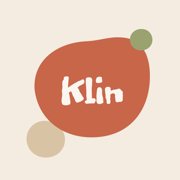
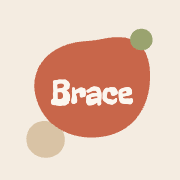
Rename app to Brace and add Ember palette

diff --git a/index.html b/index.html
@@ -4,13 +4,13 @@
   <meta charset="utf-8">
   <meta name="viewport" content="width=device-width, initial-scale=1, viewport-fit=cover">
   <!-- Rename: also change APP_NAME in config.js and the manifest -->
-  <title>Klin</title>
+  <title>Brace</title>
   <meta name="description" content="A small, private place for the things you're grateful for.">
   <meta name="theme-color" content="#F4ECE1" media="(prefers-color-scheme: light)">
   <meta name="theme-color" content="#2A1E19" media="(prefers-color-scheme: dark)">
   <meta name="apple-mobile-web-app-capable" content="yes">
   <meta name="apple-mobile-web-app-status-bar-style" content="default">
-  <meta name="apple-mobile-web-app-title" content="Klin">
+  <meta name="apple-mobile-web-app-title" content="Brace">
   <link rel="manifest" href="manifest.webmanifest">
   <link rel="icon" href="icons/favicon-32.png" type="image/png" sizes="32x32">
   <link rel="apple-touch-icon" href="icons/apple-touch-icon.png">
@@ -126,6 +126,14 @@
           <button data-value="auto" data-text="themeAuto"></button>
           <button data-value="light" data-text="themeLight"></button>
           <button data-value="dark" data-text="themeDark"></button>
+        </div>
+      </div>
+
+      <div class="group">
+        <p class="label" data-text="palette"></p>
+        <div class="seg" data-setting="palette">
+          <button data-value="terra" data-text="paletteTerra"></button>
+          <button data-value="ember" data-text="paletteEmber"></button>
         </div>
       </div>
 

diff --git a/app.js b/app.js
@@ -22,7 +22,7 @@
     },
   };
 
-  const DEFAULTS = { count: 5, lang: "en", theme: "auto" };
+  const DEFAULTS = { count: 5, lang: "en", theme: "auto", palette: "terra" };
   const settings = { ...DEFAULTS, ...store.get("settings", {}) };
   let entries = store.get("entries", {});
 
@@ -101,7 +101,12 @@
     else root.setAttribute("data-theme", settings.theme);
     const dark = settings.theme === "dark" ||
       (settings.theme === "auto" && matchMedia("(prefers-color-scheme: dark)").matches);
-    $$('meta[name="theme-color"]').forEach((m) => m.setAttribute("content", dark ? "#2A1E19" : "#F4ECE1"));
+    if (settings.palette === "ember") root.setAttribute("data-palette", "ember");
+    else root.removeAttribute("data-palette");
+    const bars = settings.palette === "ember"
+      ? { dark: "#161213", light: "#E9E5E2" }
+      : { dark: "#2A1E19", light: "#F4ECE1" };
+    $$('meta[name="theme-color"]').forEach((m) => m.setAttribute("content", dark ? bars.dark : bars.light));
   }
 
   function applyTexts() {
@@ -429,7 +434,7 @@
     const key = b.closest(".seg").dataset.setting;
     settings[key] = key === "count" ? Number(b.dataset.value) : b.dataset.value;
     saveSettings();
-    if (key === "theme") applyTheme();
+    if (key === "theme" || key === "palette") applyTheme();
     if (key === "lang") applyTexts();
     if (key === "count") renderMessage(state.date);
     renderSettings();

diff --git a/style.css b/style.css
@@ -77,6 +77,57 @@
   color-scheme: dark;
 }
 
+/* Ember palette: ash greys, charcoal and glowing reds. Opt-in via data-palette. */
+:root[data-palette="ember"] {
+  --bg: #E9E5E2;
+  --surface: #F4F1EF;
+  --ink: #231E1D;
+  --ink-soft: #675E5A;
+  --ink-faint: #A39A95;
+  --terra: #B8361F;
+  --terra-soft: #D98C7C;
+  --brand: #C2432B;
+  --sand: #BDB5AF;
+  --olive: #C9792B;
+  --blush: #D3ADA4;
+  --line: rgba(35, 30, 29, 0.13);
+  --focus: rgba(184, 54, 31, 0.35);
+}
+
+@media (prefers-color-scheme: dark) {
+  :root[data-palette="ember"]:not([data-theme="light"]) {
+    --bg: #161213;
+    --surface: #211B1B;
+    --ink: #EDE5E0;
+    --ink-soft: #B0A59F;
+    --ink-faint: #6F6561;
+    --terra: #E5482E;
+    --terra-soft: #8F3A2C;
+    --brand: #C23B25;
+    --sand: #4A4240;
+    --olive: #D9822B;
+    --blush: #6E3A32;
+    --line: rgba(237, 229, 224, 0.12);
+    --focus: rgba(229, 72, 46, 0.4);
+  }
+}
+
+:root[data-palette="ember"][data-theme="dark"] {
+  --bg: #161213;
+  --surface: #211B1B;
+  --ink: #EDE5E0;
+  --ink-soft: #B0A59F;
+  --ink-faint: #6F6561;
+  --terra: #E5482E;
+  --terra-soft: #8F3A2C;
+  --brand: #C23B25;
+  --sand: #4A4240;
+  --olive: #D9822B;
+  --blush: #6E3A32;
+  --line: rgba(237, 229, 224, 0.12);
+  --focus: rgba(229, 72, 46, 0.4);
+}
+
 * { box-sizing: border-box; }
 
 html, body { margin: 0; }

diff --git a/i18n.js b/i18n.js
@@ -26,6 +26,9 @@ window.I18N = {
     themeAuto: "Auto",
     themeLight: "Light",
     themeDark: "Dark",
+    palette: "Colours",
+    paletteTerra: "Terracotta",
+    paletteEmber: "Ember",
 
     backupTitle: "Google Doc",
     driveDesc: "Use a Google Doc in your own Drive as the shared place for your days: one you already write in, or a new one. Your phone and computer both read and write there. {name} can only see that doc, nothing else.",
@@ -89,6 +92,9 @@ window.I18N = {
     themeAuto: "Auto",
     themeLight: "Chiaro",
     themeDark: "Scuro",
+    palette: "Colori",
+    paletteTerra: "Terracotta",
+    paletteEmber: "Braciere",
 
     backupTitle: "Google Doc",
     driveDesc: "Usa un Google Doc nel tuo Drive come posto comune per i tuoi giorni: uno in cui scrivi già, o uno nuovo. Telefono e computer leggono e scrivono lì. {name} può vedere solo quel documento, nient'altro.",

diff --git a/sw.js b/sw.js
@@ -1,5 +1,5 @@
 // Offline support. Bump VERSION when you publish changes.
-const VERSION = "gj-v27";
+const VERSION = "gj-v28";
 const SHELL = [
   "./", "index.html", "style.css", "config.js", "i18n.js", "messages.js", "shapes.js", "drive.js", "app.js",
   "manifest.webmanifest", "icons/favicon-32.png", "icons/apple-touch-icon.png", "icons/icon-192.png", "icons/icon-512.png",

diff --git a/config.js b/config.js
@@ -2,7 +2,7 @@
 // If you change APP_NAME, also update "name"/"short_name" in manifest.webmanifest
 // and the <title> in index.html (see README).
 window.APP_CONFIG = {
-  APP_NAME: "Klin",
+  APP_NAME: "Brace",
 
   // Name of the Google Doc created in his Drive for the automatic backup.
   // Only used when the doc is first created; afterwards it is found by its id.
